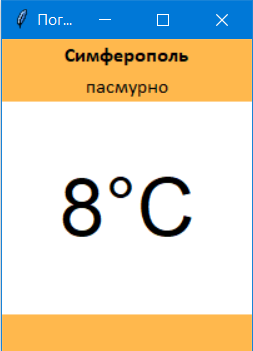
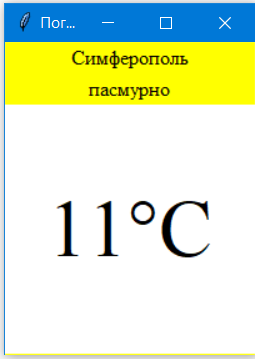
lab 1'' q qqw

diff --git a/Labs/Lab1/Python/main.py b/Labs/Lab1/Python/main.py
@@ -2,6 +2,7 @@ from tkinter import *
 import json
 import requests
 
+#Функция, запрашивающая значение температуры у сервера
 def reload_data(event=None):
 	try:
 		response = requests.get('http://localhost:3000/raw').content.decode("utf8")
@@ -18,22 +19,17 @@ root.pack_propagate(0)
 root.bind("<Button-1>", reload_data)
 root.geometry("200x250")
 
-_yellow = "#ffb84d"
-_white = "#ffffff"
-_w = 100
-_h = 30
-
-top_frame =    Frame(root, bg=_yellow, width=_w, height=_h)
-middle_frame = Frame(root, bg=_white,  width=_w, height=_h*3)
-bottom_frame = Frame(root, bg=_yellow, width=_w, height=_h)
+top_frame =    Frame(root, bg="yellow")
+middle_frame = Frame(root, bg="white")
+bottom_frame = Frame(root, bg="yellow")
 
 top_frame.pack(fill=X)
 middle_frame.pack(expand=True, fill=BOTH)
 bottom_frame.pack(side=BOTTOM, fill=X)
 
-city = Label(top_frame, font=("Calibri Bold", 12), text="Симферополь", bg=_yellow)
-desc = Label(top_frame, font=("Calibri", 12), bg=_yellow)
-temp = Label(middle_frame, font=("Liberation Sans Bold", 48), bg=_white)
+city = Label(top_frame, font=("Times New Roman", 12), text="Симферополь", bg="yellow")
+desc = Label(top_frame, font=("Times New Roman", 12), bg="yellow")
+temp = Label(middle_frame, font=("Times New Roman", 48), bg="white")
 
 city.pack(pady=0)
 desc.pack(pady=0)

diff --git a/Labs/Lab1/C++/Lab1/funcs.cpp b/Labs/Lab1/C++/Lab1/funcs.cpp
@@ -4,8 +4,8 @@
 using json = nlohmann::json;
 using namespace httplib;
 
-Client owm("http://api.openweathermap.org");
-Client time_srv("http://worldtimeapi.org");
+Client weather("http://api.openweathermap.org");
+Client timez("http://worldtimeapi.org");
 
 json cache;
 
@@ -18,7 +18,7 @@ void findAndReplaceAll(std::string& data, std::string toSearch, std::string repl
 }
 
 json get_json() {
-    auto res = owm.Get("/data/2.5/onecall?lat=44.952116&lon=34.102411&units=metric&exclude=current,minutely,daily,alerts&lang=ru&appid=b522dba7cc25f5d20be8b87eda9ec768");
+    auto res = weather.Get("/data/2.5/onecall?lat=44.952116&lon=34.102411&units=metric&exclude=current,minutely,daily,alerts&lang=ru&appid=b522dba7cc25f5d20be8b87eda9ec768");
     if (!res) {
         return ("Err");
     }
@@ -65,7 +65,7 @@ bool cache_json(json j) {
 }
 
 json get_time() {
-    auto time = time_srv.Get("/api/timezone/Europe/Simferopol");
+    auto time = timez.Get("/api/timezone/Europe/Simferopol");
     if (!time) {
         return("Err");
         return json::object();
